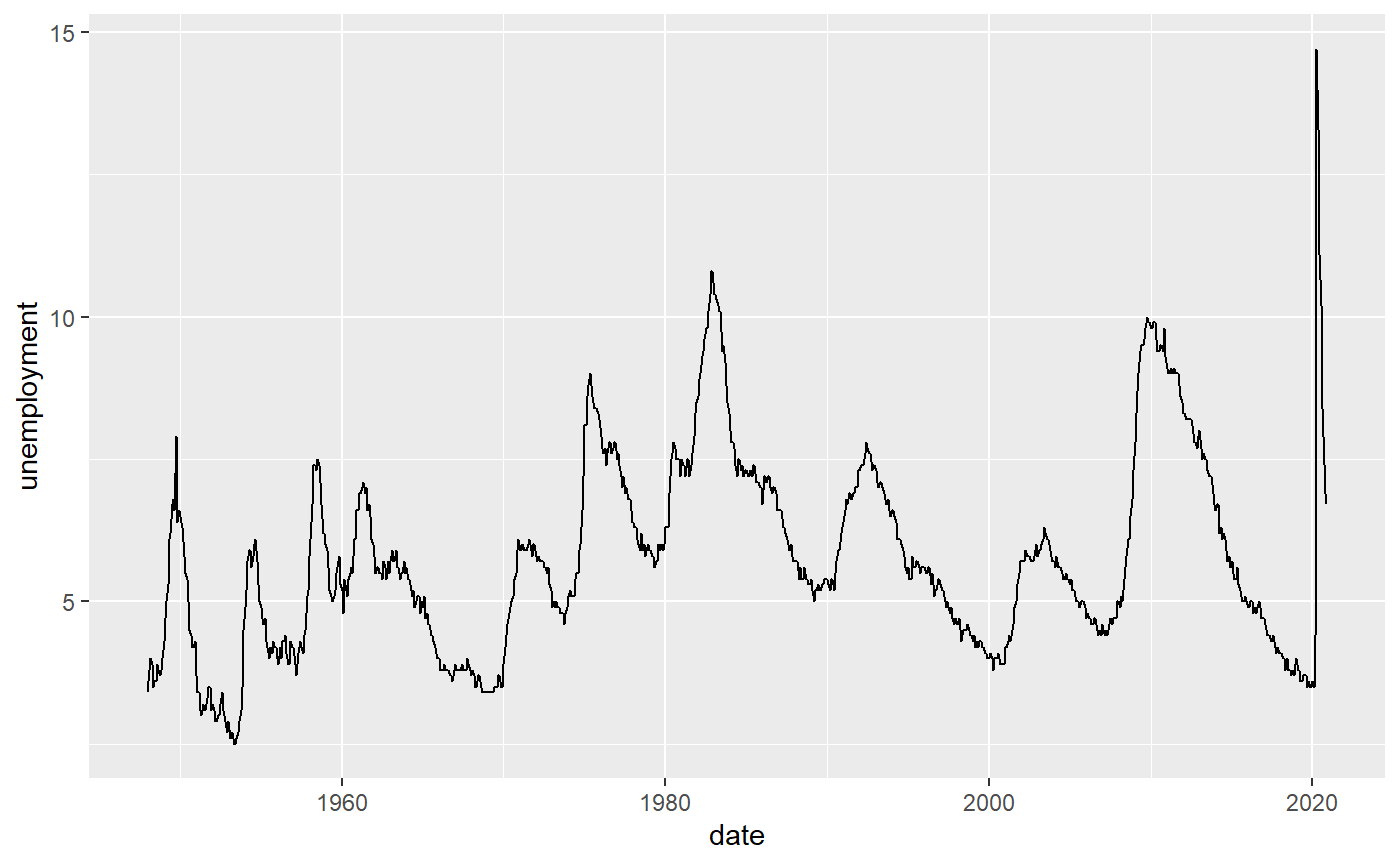
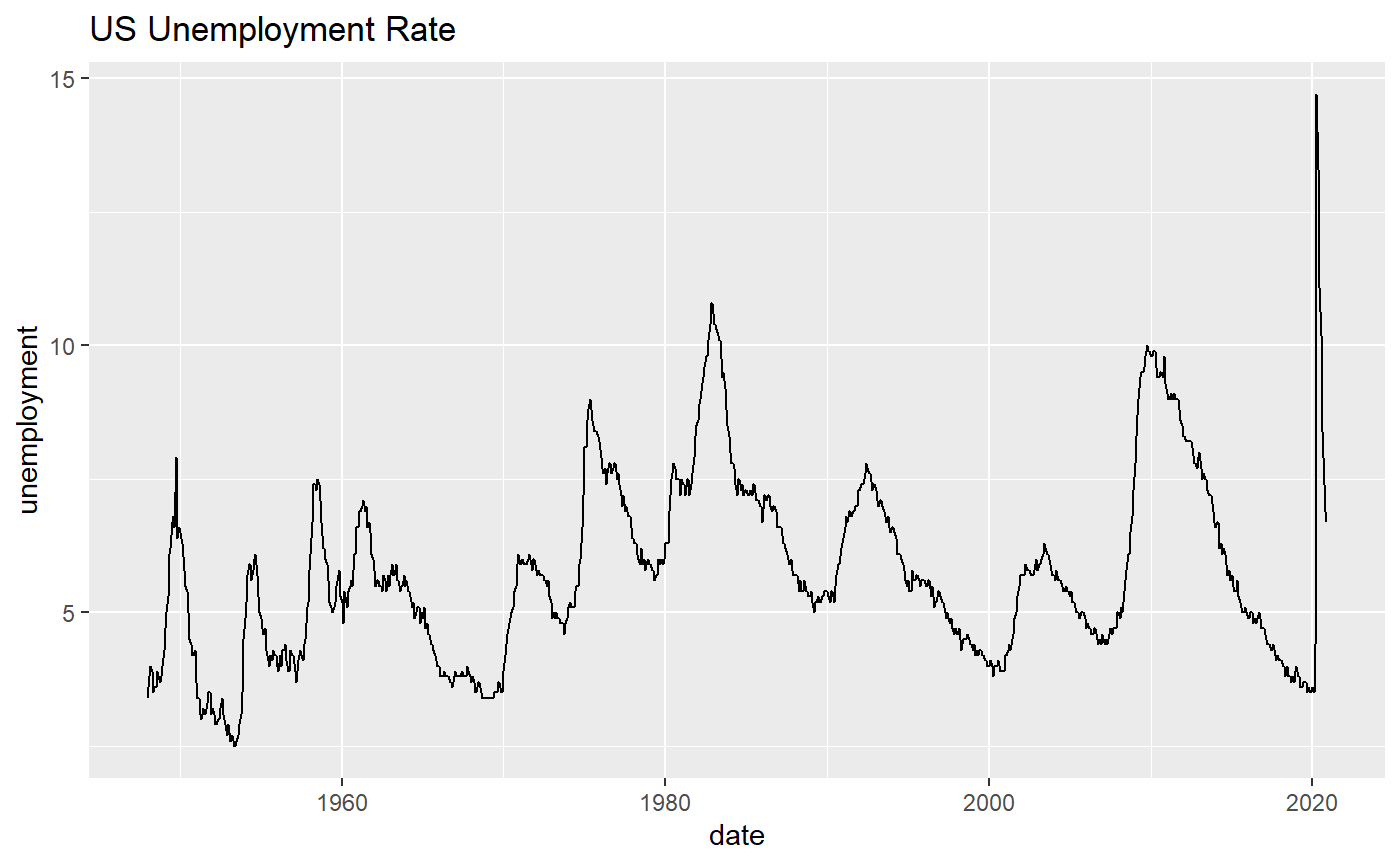
fix text

diff --git a/docs/articles/the_Vignettes.html b/docs/articles/the_Vignettes.html
@@ -90,7 +90,7 @@
 
     
     
-<p>The fedeconseries, an R API package, provides an easy way to obtain real-time and archival data from the U.S. Frderal Reserve. Real-time series means there is no adjustment on raw data; archival series means there are adjustments on raw data (For instance on February 2, 1990, the US Bureau of Labor Statistics reported the US unemployment rate for the month of January, 1990 as 5.3 percent. Over 6 years later on March 8, 1996, the US unemployment rate for the same month January, 1990 was revised to 5.4 percent). The FRED official website  tracks 767,000 US and international time series from 102 sources.</p>
+<p>The fedeconseries, an R API package developed by Harry, provides an easy way to obtain real-time and archival data from the U.S. Frderal Reserve. Real-time series means there is no adjustment on raw data; archival series means there are adjustments on raw data (For instance on February 2, 1990, the US Bureau of Labor Statistics reported the US unemployment rate for the month of January, 1990 as 5.3 percent. Over 6 years later on March 8, 1996, the US unemployment rate for the same month January, 1990 was revised to 5.4 percent). The FRED official website  tracks 767,000 US and international time series from 102 sources.</p>
 <div id="package-installation" class="section level2">
 <h2 class="hasAnchor">
 <a href="#package-installation" class="anchor"></a>1. Package Installation</h2>
@@ -156,12 +156,13 @@
 <p>This can be readily used for plotting,</p>
 <div class="sourceCode" id="cb7"><pre class="sourceCode r"><code class="sourceCode r"><a class="sourceLine" id="cb7-1" title="1"><span class="kw"><a href="https://rdrr.io/r/base/library.html">library</a></span>(ggplot2)</a>
 <a class="sourceLine" id="cb7-2" title="2"><span class="kw">ggplot</span>(df) <span class="op">+</span></a>
-<a class="sourceLine" id="cb7-3" title="3"><span class="st">  </span><span class="kw">geom_line</span>(<span class="kw">aes</span>(<span class="dt">x =</span> date, <span class="dt">y =</span> unemployment))</a></code></pre></div>
+<a class="sourceLine" id="cb7-3" title="3"><span class="st">  </span><span class="kw">ggtitle</span>(<span class="st">"US Unemployment Rate"</span>) <span class="op">+</span></a>
+<a class="sourceLine" id="cb7-4" title="4"><span class="st">  </span><span class="kw">geom_line</span>(<span class="kw">aes</span>(<span class="dt">x =</span> date, <span class="dt">y =</span> unemployment))</a></code></pre></div>
 <p><img src="the_Vignettes_files/figure-html/unnamed-chunk-5-1.png" width="700"></p>
 </div>
 <div id="example-two-corporate-bond-credit-spread" class="section level3">
 <h3 class="hasAnchor">
-<a href="#example-two-corporate-bond-credit-spread" class="anchor"></a>2.2 Example two: Corporate Bond credit spread</h3>
+<a href="#example-two-corporate-bond-credit-spread" class="anchor"></a>2.2 Example two: corporate bond credit spread</h3>
 <p>We searched the data identifiers for several corporate bond effective yields(provided by Bank of America Merrill Lynch) from alfred, retrieve the series, and process the dataframe a little bit for plotting:</p>
 <div class="sourceCode" id="cb8"><pre class="sourceCode r"><code class="sourceCode r"><a class="sourceLine" id="cb8-1" title="1"><span class="kw"><a href="https://rdrr.io/r/base/library.html">library</a></span>(tidyverse)</a></code></pre></div>
 <pre><code>## Warning: package 'tidyverse' was built under R version 3.6.3</code></pre>
@@ -197,7 +198,7 @@
 <a class="sourceLine" id="cb24-4" title="4"><span class="st">  </span><span class="kw">geom_line</span>(<span class="kw">aes</span>(<span class="dt">y =</span> ccc_bb, <span class="dt">color=</span><span class="st">"CCC-BB spread"</span>)) <span class="op">+</span></a>
 <a class="sourceLine" id="cb24-5" title="5"><span class="st">  </span><span class="kw">geom_line</span>(<span class="kw">aes</span>(<span class="dt">y =</span> bbb_aaa, <span class="dt">color=</span><span class="st">"BBB-AAA spread"</span>))<span class="op">+</span></a>
 <a class="sourceLine" id="cb24-6" title="6"><span class="st">  </span><span class="kw">ggtitle</span>(<span class="st">"Corporate Bond Credit Spread -- BOAML"</span>) <span class="op">+</span></a>
-<a class="sourceLine" id="cb24-7" title="7"><span class="st">  </span><span class="kw">xlab</span>(<span class="st">"Time"</span>) <span class="op">+</span><span class="st"> </span><span class="kw">ylab</span>(<span class="st">"Spread,%"</span>)</a></code></pre></div>
+<a class="sourceLine" id="cb24-7" title="7"><span class="st">  </span><span class="kw">xlab</span>(<span class="st">"Date"</span>) <span class="op">+</span><span class="st"> </span><span class="kw">ylab</span>(<span class="st">"Spread,%"</span>)</a></code></pre></div>
 <p><img src="the_Vignettes_files/figure-html/unnamed-chunk-7-1.png" width="700"></p>
 </div>
 <div id="example-three-us-federal-reserve-weekly-asset-purchase" class="section level3">
@@ -207,7 +208,7 @@
 <div class="sourceCode" id="cb25"><pre class="sourceCode r"><code class="sourceCode r"><a class="sourceLine" id="cb25-1" title="1"><span class="kw">ggplot</span>(df, <span class="kw">aes</span>(<span class="dt">x=</span>date)) <span class="op">+</span><span class="st"> </span></a>
 <a class="sourceLine" id="cb25-2" title="2"><span class="st">  </span><span class="kw">geom_line</span>(<span class="kw">aes</span>(<span class="dt">y =</span> weekly_fed_purchase))<span class="op">+</span></a>
 <a class="sourceLine" id="cb25-3" title="3"><span class="st">  </span><span class="kw">ggtitle</span>(<span class="st">"U.S. Federal Reserve Asset Purchase"</span>) <span class="op">+</span></a>
-<a class="sourceLine" id="cb25-4" title="4"><span class="st">  </span><span class="kw">xlab</span>(<span class="st">"Time"</span>) <span class="op">+</span><span class="st"> </span><span class="kw">ylab</span>(<span class="st">"Weekly puschase, in $USD millions"</span>)</a></code></pre></div>
+<a class="sourceLine" id="cb25-4" title="4"><span class="st">  </span><span class="kw">xlab</span>(<span class="st">"Date"</span>) <span class="op">+</span><span class="st"> </span><span class="kw">ylab</span>(<span class="st">"Weekly purchase,  in $USD millions"</span>)</a></code></pre></div>
 <p><img src="the_Vignettes_files/figure-html/unnamed-chunk-8-1.png" width="700"></p>
 </div>
 </div>
